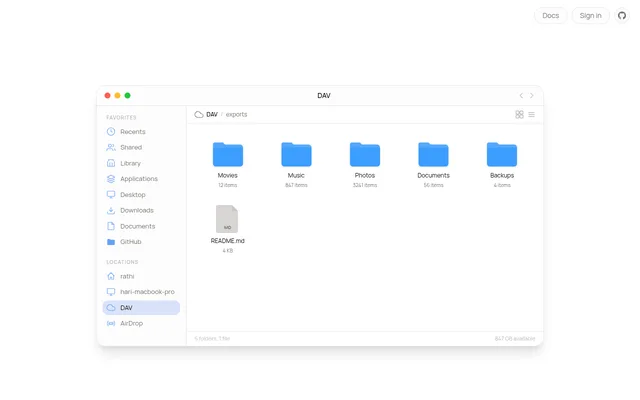
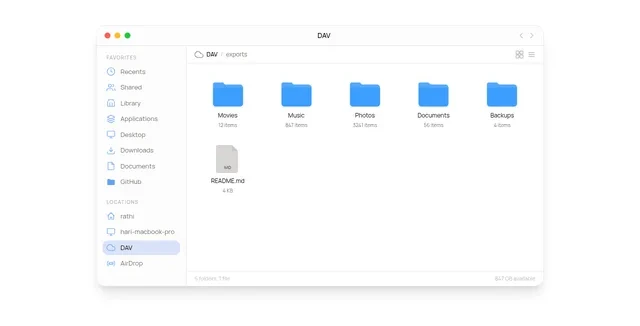
Color the grid tiles per project, fit media whole, autoplay, center betternas

diff --git a/src/lib/ProjectsGrid.svelte b/src/lib/ProjectsGrid.svelte
@@ -3,10 +3,11 @@
   import ProjectMedia from "$lib/ProjectMedia.svelte";
   import { projects } from "$lib/projects.js";
 
-  // the projects as a grid of identical 16:9 tiles. landscape media fills
-  // its tile edge to edge (the lightbox shows the whole frame); the two
-  // portrait phone recordings are the only ones that need a plate behind
-  // them, so only they get one. two columns and eight projects come out even.
+  // the projects as a grid of identical 16:9 tiles. none of the shots are
+  // 16:9, so each one fits inside its tile on a solid color from its own
+  // palette: the phones stand on theirs, landscape shots sit inset on
+  // theirs, and shots whose edge already is that color are seamless.
+  // two columns and eight projects come out even.
   let expanded = $state(null); // click-to-expand lightbox
 
   // one description per project; the status note rides on the name line
@@ -23,15 +24,16 @@
 
 <div class="grid">
   {#each projects as p}
-    <div class="cell" data-hover>
+    <div class="cell">
       <button
         class="tile"
         class:portrait={p.height > p.width}
+        style="background: {p.bg}"
         onclick={() => (expanded = p)}
         tabindex="-1"
         aria-hidden="true"
       >
-        <ProjectMedia media={p.media} width={p.width} height={p.height} phone={p.phone} thumb hover />
+        <ProjectMedia media={p.media} width={p.width} height={p.height} phone={p.phone} thumb />
       </button>
       <div class="info">
         <div class="row">
@@ -69,11 +71,13 @@
     min-width: 0;
   }
 
-  /* the tile: a fixed 16:9 box. landscape media covers it; the frame shown
-     is the middle of the shot, the click shows all of it */
+  /* the tile: a fixed 16:9 box painted in the project's color. media is
+     centered and contained, never cropped; the click shows it full size */
   .tile {
     position: relative;
-    display: block;
+    display: flex;
+    align-items: center;
+    justify-content: center;
     width: 100%;
     aspect-ratio: 16 / 9;
     margin: 0;
@@ -81,16 +85,15 @@
     border: 0;
     border-radius: 2px;
     overflow: hidden;
-    background: none;
     cursor: zoom-in;
   }
   .tile :global(:is(img, video)) {
     display: block;
-    position: absolute;
-    inset: 0;
-    width: 100%;
-    height: 100%;
-    object-fit: cover;
+    width: auto;
+    height: auto;
+    max-width: 88%;
+    max-height: 86%;
+    object-fit: contain;
     transition: opacity 0.3s ease;
   }
   .tile :global(.pending) {
@@ -99,21 +102,12 @@
   .tile :global(.skeleton) {
     display: none;
   }
-  /* portrait recordings: the phone stands on a quiet plate (the code-block
-     tint), the one place a background is actually needed */
-  .tile.portrait {
-    display: flex;
-    align-items: center;
-    justify-content: center;
-    background: color-mix(in srgb, var(--fg) 7%, transparent);
+  /* iphone recordings show the screen's own rounded corners; match them */
+  .tile :global(.phone) {
+    border-radius: 14% / 6.46%;
   }
   .tile.portrait :global(:is(img, video)) {
-    position: static;
-    width: auto;
-    height: 88%;
-    object-fit: contain;
-    /* iphone recordings show the screen's own rounded corners; match them */
-    border-radius: 14% / 6.46%;
+    max-height: 88%;
   }
 
   /* caption: name and status on one line, one description under it. the

diff --git a/src/lib/projects.js b/src/lib/projects.js
@@ -1,6 +1,8 @@
 // the project list, shared by the row view (Projects.svelte) and the grid
 // mockup. width/height are each file's intrinsic pixels (ffprobe); they
-// reserve the media box before anything loads
+// reserve the media box before anything loads. bg is the solid the grid
+// tile paints behind media that isn't 16:9, picked from each shot's own
+// palette (or matching its edge color, so the frame is seamless)
 export const projects = [
   {
     name: "mixbridge",
@@ -9,6 +11,7 @@ export const projects = [
     width: 590,
     height: 1280,
     phone: true, // raw iphone screen recording: media carries the screen's rounded corners
+    bg: "#1b2ed1", // the app's blue, a step brighter than the screen
     desc: "a beautiful listening experience on iOS that mixes music on the go",
   },
   {
@@ -17,6 +20,7 @@ export const projects = [
     media: "einstein.webp",
     width: 640,
     height: 400,
+    bg: "#f3cf49", // the shot's own yellow: seamless
     desc: "ai agent that does your canvas assignments autonomously",
     note: "cease and desisted",
   },
@@ -26,6 +30,7 @@ export const projects = [
     media: "mux.mp4",
     width: 1280,
     height: 830,
+    bg: "#b8b0a2", // warm sand from the terminal's text, behind a near-black window
     desc: "a stateless, host-agnostic, macos-native terminal multiplexing client for ghostty",
   },
   {
@@ -34,6 +39,7 @@ export const projects = [
     media: "pierrejo.mp4",
     width: 1280,
     height: 894,
+    bg: "#1f4652", // dark teal behind the pale diff view
     desc: "beautiful and instantaneous diff viewing for forgejo",
   },
   {
@@ -42,6 +48,7 @@ export const projects = [
     media: "agentcomputer.mp4",
     width: 1280,
     height: 782,
+    bg: "#c8cbd0", // cool light gray behind the black ascii site
     desc: "isolated cloud computers for ai agents",
     note: "no longer maintained",
   },
@@ -51,6 +58,7 @@ export const projects = [
     media: "nap.mp4",
     width: 360,
     height: 640,
+    bg: "#2d5a3c", // deep green against the beige carpet
     desc: "Not Airplay™",
     desc2: "turn a linux-owned monitor into an extended display for your mac",
   },
@@ -60,6 +68,7 @@ export const projects = [
     media: "deskctl.mp4",
     width: 640,
     height: 336,
+    bg: "#b7472a", // rust behind the two light windows
     desc: "non-interactive x11 desktop control for ai agents",
     note: "no longer maintained",
   },
@@ -68,12 +77,9 @@ export const projects = [
     href: "https://betternas.com",
     media: "betternas.webp",
     width: 640,
-    height: 400,
+    height: 326,
+    bg: "#fefefe", // the shot's own white: seamless
     desc: "macos native filesystem admin over http",
     note: "no longer maintained",
   },
 ];
-
-// "mixbridge.app", "git.harivan.sh" ...: the destination, shown as metadata
-export const host = (href) => new URL(href).hostname.replace(/^www\./, "");
-export const slug = (name) => name.toLowerCase().replace(/[^a-z0-9]+/g, "-");

diff --git a/src/lib/ProjectMedia.svelte b/src/lib/ProjectMedia.svelte
@@ -1,7 +1,7 @@
 <script module>
   // media lives in static/previews (shared with the hover previews); bump
   // when regenerating clips: static/ assets are CDN-cached immutably
-  const V = "12";
+  const V = "13";
 </script>
 
 <script>
@@ -18,9 +18,7 @@
   // lazy thumbs (the index's mobile-only sections) defer everything to the
   // viewport: display:none on desktop means they never intersect, so the
   // hidden rows cost zero bytes there
-  // hover: play only while the cursor is over the media (grid tiles), instead
-  // of whenever it nears the viewport. touch devices keep the viewport observer
-  let { media, width, height, phone = false, thumb = false, lazy = false, hover = false } = $props();
+  let { media, width, height, phone = false, thumb = false, lazy = false } = $props();
 
   const video = $derived(media.endsWith(".mp4"));
   const src = $derived(`/previews/${media}?v=${V}`);
@@ -43,19 +41,6 @@
   // the whole page instead of 18MB); this action streams and plays each one
   // as it approaches the viewport, and pauses it on the way out
   function lazyplay(node) {
-    if (hover && navigator.maxTouchPoints === 0) {
-      const parent = node.closest("[data-hover]") ?? node;
-      const play = () => node.play();
-      const pause = () => node.pause();
-      parent.addEventListener("pointerenter", play);
-      parent.addEventListener("pointerleave", pause);
-      return {
-        destroy: () => {
-          parent.removeEventListener("pointerenter", play);
-          parent.removeEventListener("pointerleave", pause);
-        },
-      };
-    }
     const io = new IntersectionObserver(
       ([e]) => {
         if (e.isIntersecting) node.play();

diff --git a/MOCKUP2.md b/MOCKUP2.md
@@ -15,13 +15,14 @@ A full `./build.sh` in the main checkout wipes `dist/` and removes it.
 
 Direction: the normal sidebar shell, content column widened to 60rem for
 this page only. Eight projects as a two-column grid of identical 16:9 tiles.
-Landscape media covers its tile edge to edge (the lightbox shows the whole
-frame); the two portrait phone recordings stand on a quiet plate, the one
-place a background is needed. Captions are name and status on one line and a
-single description that reserves two lines, so every row ends level. Videos
-show their first frame and play only while hovered (touch devices keep the
-viewport observer). No stagger animation, one gap value. Click a tile to
-expand, esc closes. One column on mobile. The layout and SideNav treat
+None of the shots are 16:9, so each fits inside its tile, never cropped, on a
+solid color from its own palette (projects.js `bg`); shots whose edge already
+is that color (einstein yellow, betternas white) are seamless. Captions are
+name and status on one line and a single description that reserves two
+lines, so every row ends level. Videos autoplay as they near the viewport,
+as on the live page. No stagger animation, one gap value. Click a tile to
+expand, esc closes. One column on mobile. betternas.webp was recropped to
+center the window (media version bumped to 13). The layout and SideNav treat
 /mockup2/ as the projects page; when adopted, the grid replaces
 Projects.svelte on /projects/ and that special-casing goes away.
 
